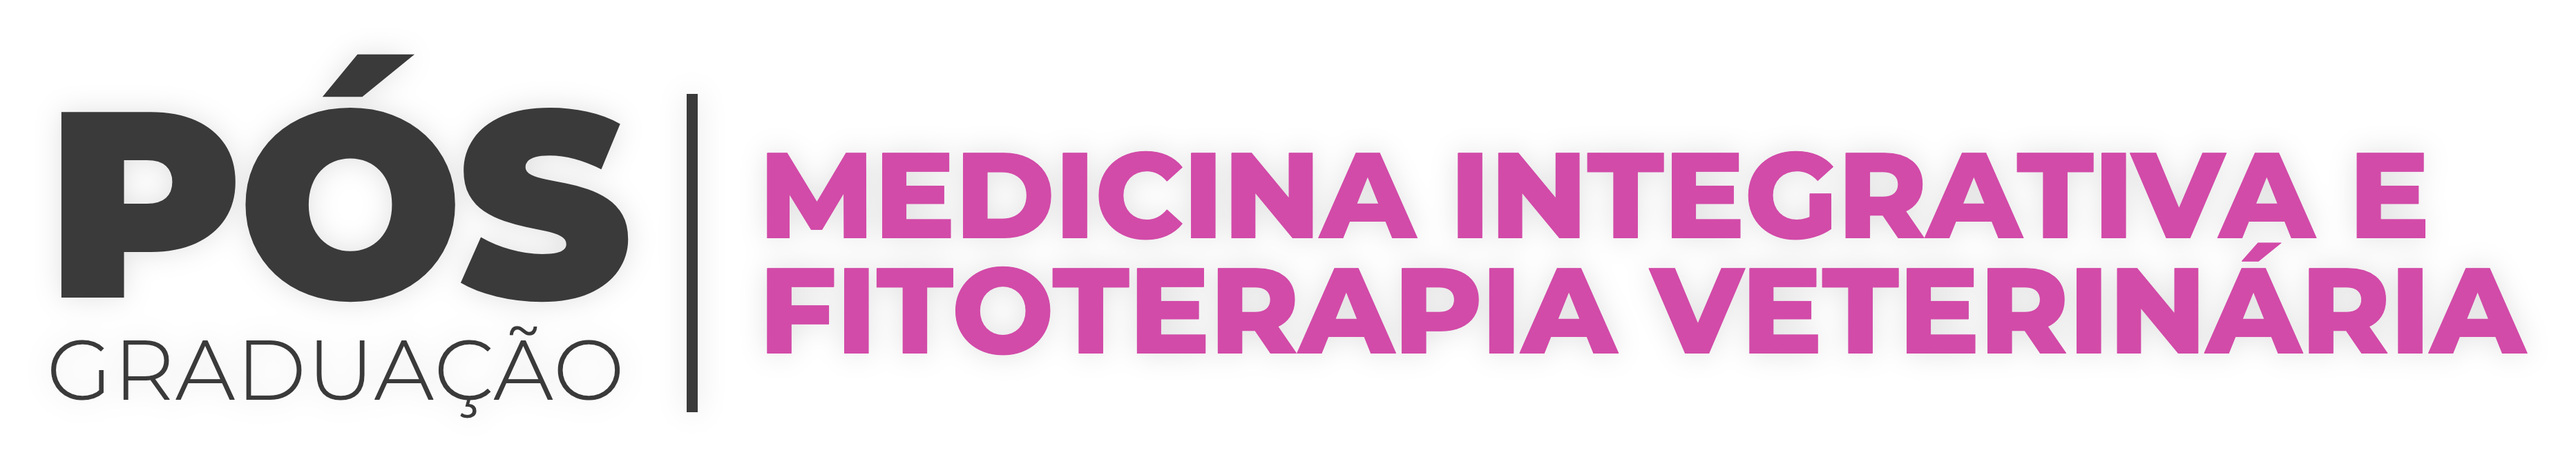
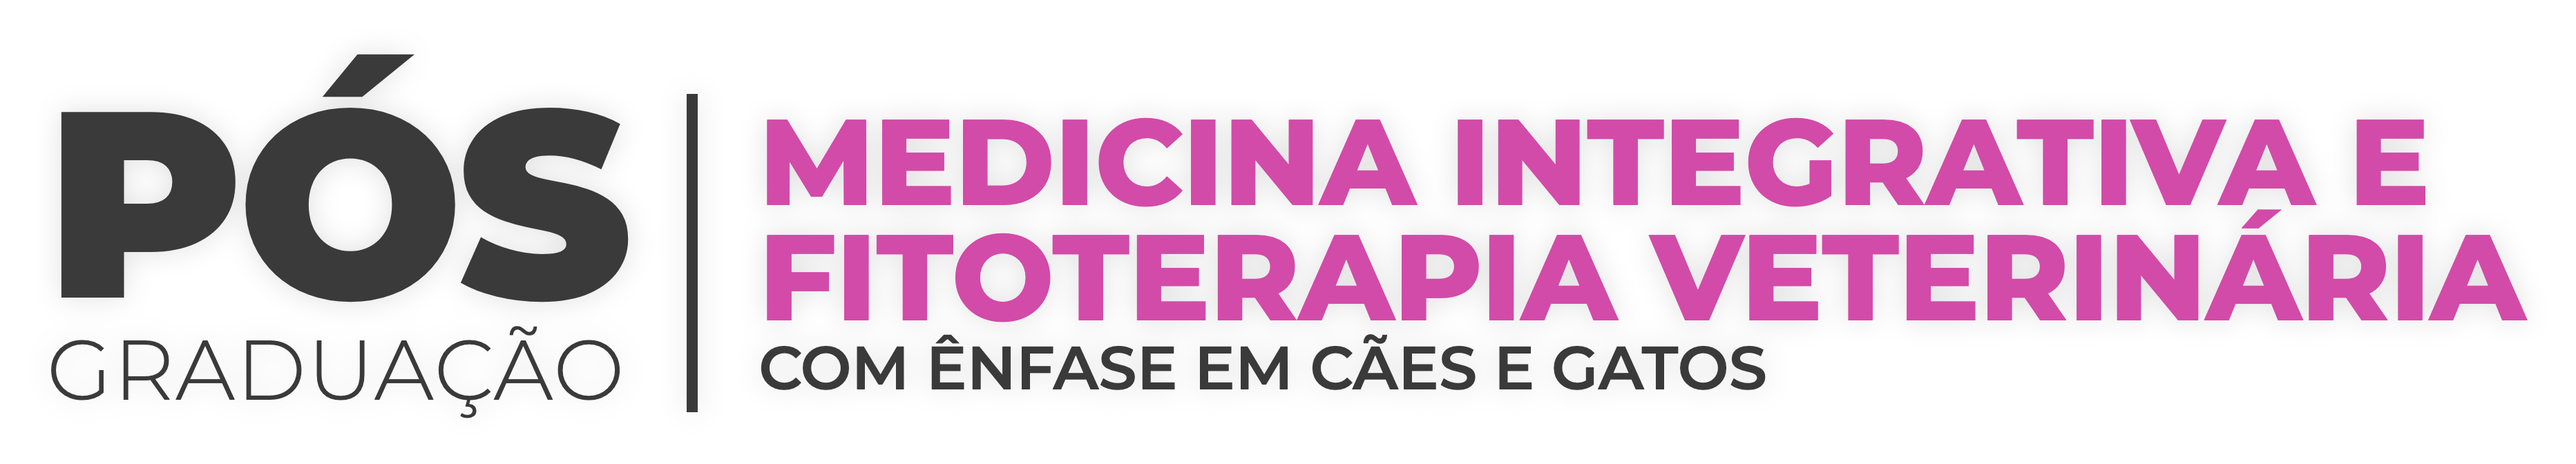
Título da MIFV com a ênfase (com Ênfase em Cães e Gatos), como a GIA

Changed region(s): [[0.28, 0.25, 0.9954, 0.8438]]

diff --git a/plugins/ppgvet/scripts/live_titulos.py b/plugins/ppgvet/scripts/live_titulos.py
@@ -21,7 +21,7 @@ POS = {  # sigla: (linhas, sub) — "|" quebra a linha
     'suz': ('Saúde Única|e Zoonoses', ''),
     'gpera': ('Gestão de Pessoas|e Extensão Rural|na Agroindústria', ''),
     'ppt': ('Piscicultura e|Produção de Tilápia', ''),
-    'mifv': ('Medicina Integrativa e|Fitoterapia Veterinária', ''),
+    'mifv': ('Medicina Integrativa e|Fitoterapia Veterinária', 'com Ênfase em Cães e Gatos'),
     'gia': ('Gestão da|Indústria de|Alimentos', 'Ênfase em Tecnologia|e Inteligência Artificial'),
     'gcc': ('Gestão de|Cooperativas|de Crédito', ''),
     'crcv': ('Crédito Rural,|Cooperativismo|e Vendas', ''),
